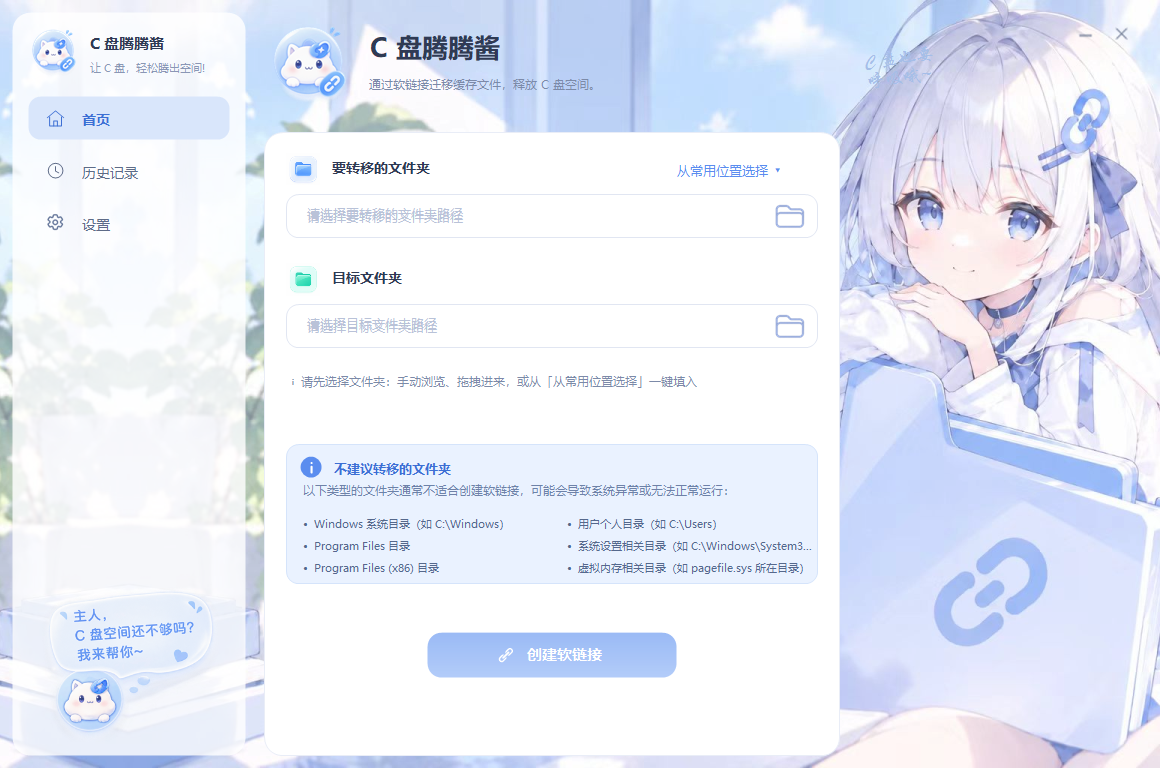
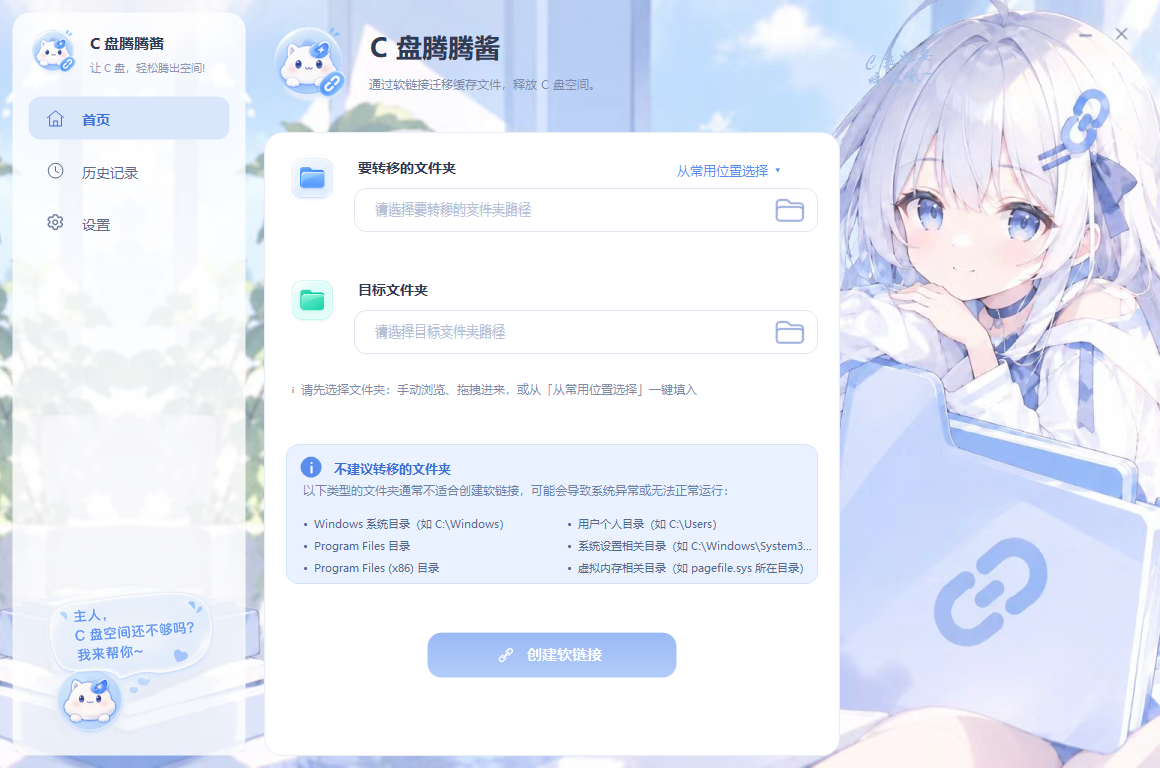
首页输入区改为参考图布局：52px 大玻璃图标在左，标题右侧，输入框与标题左对齐缩进

diff --git a/MainForm.cs b/MainForm.cs
@@ -373,13 +373,13 @@ public class MainForm : Form
         var tileSrc = new PictureBox
         {
             Image = (Image?)IconAssets.FolderSrc ?? DrawIcons.FolderTile(34, Color.FromArgb(0xE8, 0xF0, 0xFE), Blue),
-            Left = 22, Top = 20, Width = 34, Height = 34,
+            Left = 22, Top = 20, Width = 52, Height = 52,
             SizeMode = PictureBoxSizeMode.Zoom
         };
         var lblSrc = new Label
         {
             Text = "要转移的文件夹",
-            Left = 64, Top = 26, Width = 200, Height = 20,
+            Left = 90, Top = 26, Width = 200, Height = 20,
             Font = new Font("Microsoft YaHei UI", 10.5F, FontStyle.Bold),
             ForeColor = TextDark
         };
@@ -389,30 +389,30 @@ public class MainForm : Form
             Left = 382, Top = 24, Width = 170, Height = 28,
             ShowBorder = false
         };
-        _inpSrc = new InputField { Left = 22, Top = 62, Width = 532, Placeholder = "请选择要转移的文件夹路径" };
+        _inpSrc = new InputField { Left = 90, Top = 56, Width = 464, Placeholder = "请选择要转移的文件夹路径" };
         _inpSrc.BrowseButton.Click += (_, _) => Browse(_inpSrc, "选择要转移的文件夹（C 盘缓存）");
 
         var tileDst = new PictureBox
         {
             Image = (Image?)IconAssets.FolderDst ?? DrawIcons.FolderTile(34, Color.FromArgb(0xE7, 0xF8, 0xF0), Color.FromArgb(0x34, 0xB3, 0x7E)),
-            Left = 22, Top = 130, Width = 34, Height = 34,
+            Left = 22, Top = 142, Width = 52, Height = 52,
             SizeMode = PictureBoxSizeMode.Zoom
         };
         var lblDst = new Label
         {
             Text = "目标文件夹",
-            Left = 64, Top = 136, Width = 200, Height = 20,
+            Left = 90, Top = 148, Width = 200, Height = 20,
             Font = new Font("Microsoft YaHei UI", 10.5F, FontStyle.Bold),
             ForeColor = TextDark
         };
-        _inpDst = new InputField { Left = 22, Top = 172, Width = 532, Placeholder = "请选择目标文件夹路径" };
+        _inpDst = new InputField { Left = 90, Top = 178, Width = 464, Placeholder = "请选择目标文件夹路径" };
         _inpDst.BrowseButton.Click += (_, _) => Browse(_inpDst, "选择转移目标位置（其他盘）");
 
-        _lblSizeLine = new Label { Left = 22, Top = 222, Width = 532, Height = 16, ForeColor = TextGray, AutoEllipsis = true };
+        _lblSizeLine = new Label { Left = 22, Top = 232, Width = 532, Height = 16, ForeColor = TextGray, AutoEllipsis = true };
 
         _lstChecks = new ListBox
         {
-            Left = 22, Top = 242, Width = 532, Height = 62,
+            Left = 22, Top = 250, Width = 532, Height = 58,
             BorderStyle = BorderStyle.None,
             DrawMode = DrawMode.OwnerDrawFixed,
             ItemHeight = 19,
